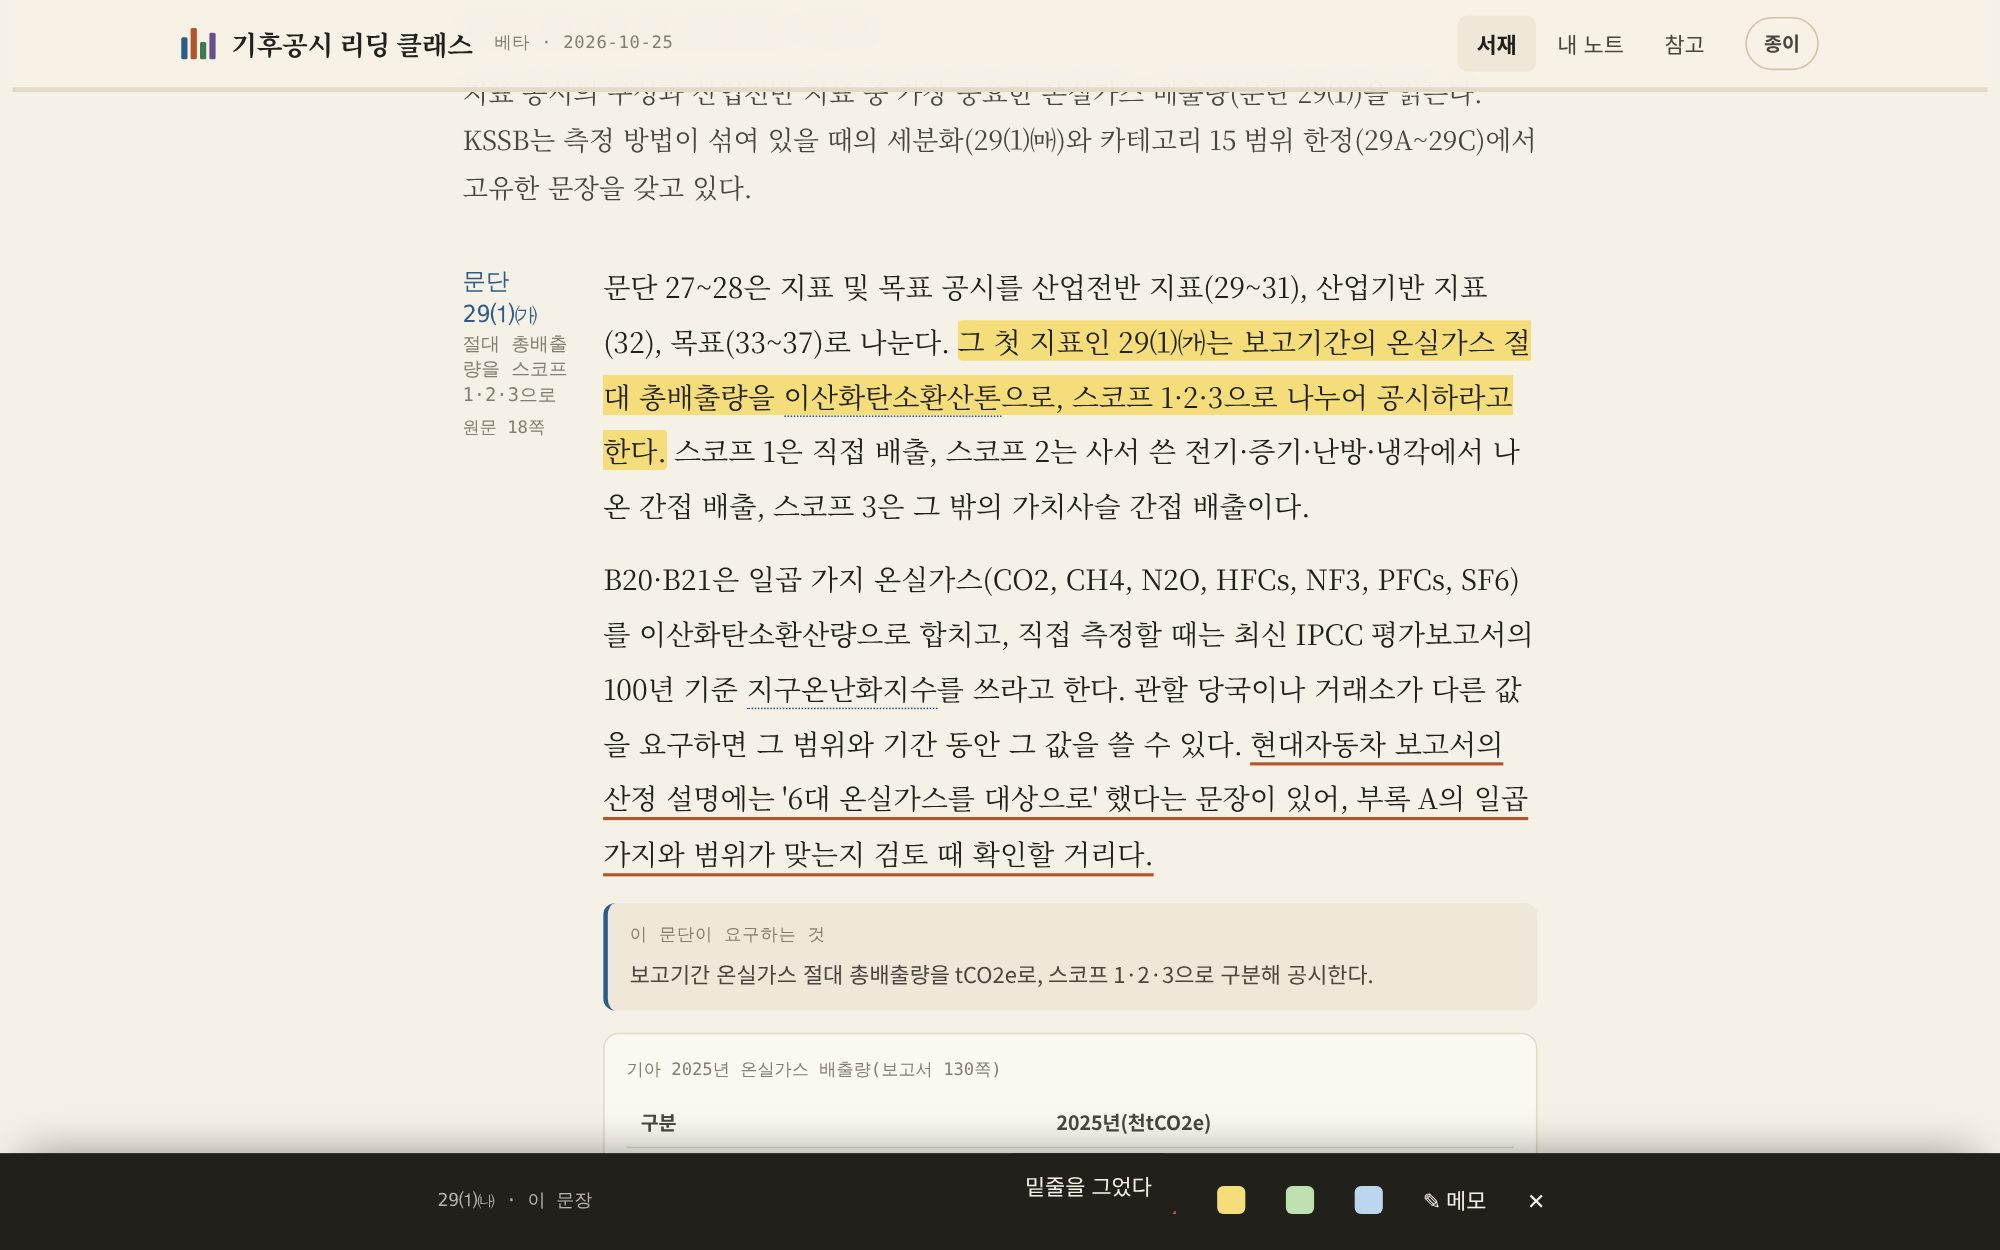
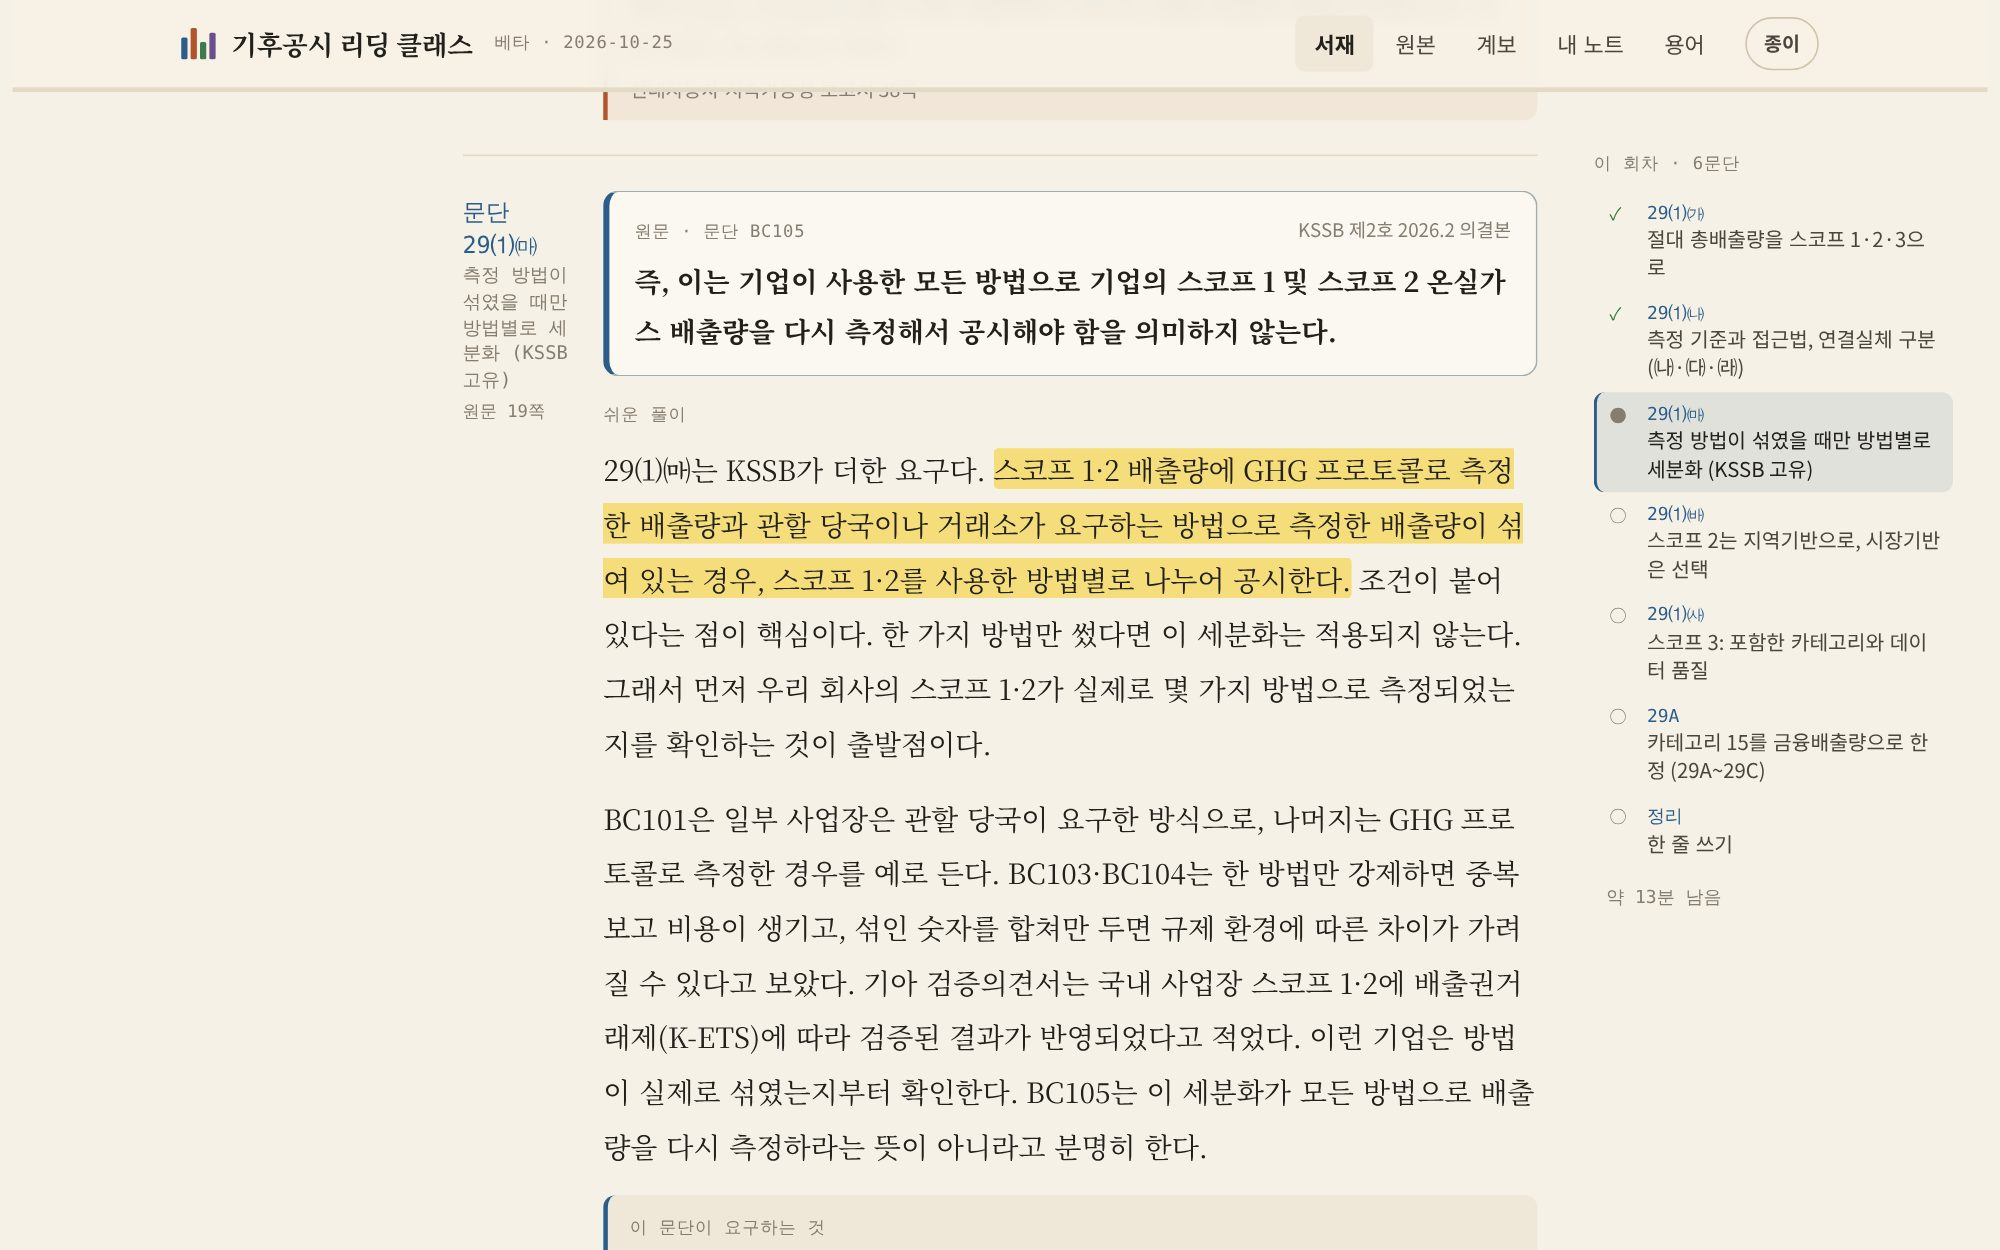
리딩 클래스 v5.1 반영: 원문 읽기·문단 계보·개정 이력 화면, KSSB 판본을 2026.2 의결본으로 정정
Claude-Session: https://claude.ai/code/session_01QTyxkXTEtuCeNheqNmYwfj

diff --git a/index.html b/index.html
@@ -420,10 +420,10 @@ main{margin-left:210px}
         <div class="fig"><div class="n">20<small>종</small></div><div class="l">원문으로 대조한<br>기준서·법령</div></div>
       </div>
       <ul class="point-box">
-        <li>기준서 <b>원문 문단 번호</b>에 모든 설명을 연결</li>
-        <li>문장 밑줄·형광펜·메모, 기아·현대차 보고서 <b>실제 예</b></li>
-        <li><b>한 줄 쓰기</b>: 핵심어 묶음으로 채점, 모범 답안 공개</li>
-        <li>KSSB↔IFRS S2 <b>대응표</b>, 용어집 438개, 검수 기록</li>
+        <li><b>원문 문장 먼저</b>, 모든 설명을 문단·쪽 번호에 연결</li>
+        <li><b>문단 계보</b>: GHG 프로토콜→국내 지침→IFRS S2→KSSB</li>
+        <li><b>개정 이력</b>(D-day)과 검수에서 고친 69곳 공개</li>
+        <li>★핵심 회차·읽기 경로, 한 줄 쓰기 키워드 채점</li>
       </ul>
       <dl class="info-box"><dt>기간</dt><dd>2026.10 ~ (진행 중)</dd><dt>역할</dt><dd>1인 기획·학습 설계·검수 (AI와 협업해 원고·구현)</dd><dt>스택</dt><dd>JavaScript · Node.js 빌드 · GitHub Pages</dd></dl>
       <div class="insight">💡 기준서는 요약본이 아니라 원문 문단으로 읽어야 실무에서 근거를 댈 수 있습니다.</div>
@@ -432,14 +432,14 @@ main{margin-left:210px}
     <div class="project-visual fade">
       <div class="browser-frame"><div class="browser-bar"><i></i><i></i><i></i><span>goalbangg-prog.github.io/Climate-Change-Professional-Maker</span></div>
         <div class="screen">
-          <div class="shot active"><div class="panel src-panel"><h6>SOURCE DOCUMENTS</h6><h3>원문으로 대조한 기준서·법령 20종</h3><div class="sub">모든 해설은 아래 원본의 문단·조항 번호에 연결했습니다.</div><div class="src-cols"><div><div class="src-g"><div class="src-h">기후공시 <span>4</span></div><div class="src-r"><b>KSSB 지속가능성 공시기준 제1호</b><i>2025 공표본</i></div><div class="src-r"><b>KSSB 지속가능성 공시기준 제2호</b><i>2025 공표본</i></div><div class="src-r"><b>IFRS S1 일반 요구사항</b><i>ISSB 2026 edition</i></div><div class="src-r"><b>IFRS S2 기후 관련 공시</b><i>2023.6 + 2025.12 개정</i></div></div><div class="src-g"><div class="src-h">산정·검증 <span>6</span></div><div class="src-r"><b>GHG Protocol 기업 회계·보고 표준</b><i>2004 개정판</i></div><div class="src-r"><b>GHG Protocol Scope 2 지침</b><i>2015</i></div><div class="src-r"><b>GHG Protocol Scope 3 표준</b><i>2011</i></div><div class="src-r"><b>GHG Protocol Scope 3 산정 지침</b><i>2013</i></div><div class="src-r"><b>배출량 보고 및 인증에 관한 지침</b><i>2025.4 시행 · 2021 구판 대조</i></div><div class="src-r"><b>배출권거래제 검증지침</b><i>2025.10 시행 · 별표 포함</i></div></div></div><div><div class="src-g"><div class="src-h">법령·제도 <span>7</span></div><div class="src-r"><b>탄소중립기본법</b><i>2026.11.12 시행</i></div><div class="src-r"><b>탄소중립기본법 시행령</b><i>2026.11.12 시행</i></div><div class="src-r"><b>배출권거래법</b><i>2026.4.29 시행</i></div><div class="src-r"><b>배출권거래법 시행령</b><i>2026.10.8 시행</i></div><div class="src-r"><b>온실가스 목표관리 운영 지침</b><i>2025.10 시행 · 별표 포함</i></div><div class="src-r"><b>환경정보공개제도 운영규정</b><i>2025.10 시행</i></div><div class="src-r"><b>K-택소노미 가이드라인</b><i>2025.12</i></div></div><div class="src-g"><div class="src-h">기후과학·국가 통계 <span>3</span></div><div class="src-r"><b>IPCC AR6 종합보고서</b><i>2023 · 영문 + 기상청 국문</i></div><div class="src-r"><b>IPCC AR6 제1실무그룹 정책결정자 요약</b><i>2021</i></div><div class="src-r"><b>국가 온실가스 인벤토리 보고서</b><i>2024 · 국문 + 영문 NID</i></div></div></div></div></div></div>
-          <div class="shot"><img src="img/ccpm-shelf.jpg?v=1" alt="리딩 클래스 서재 화면" loading="lazy"></div>
-          <div class="shot"><img src="img/ccpm-read.jpg?v=1" alt="KSSB 제2호 문단 29 읽기와 문장 표시" loading="lazy"></div>
-          <div class="shot"><img src="img/ccpm-write.jpg?v=1" alt="한 줄 쓰기 채점 결과" loading="lazy"></div>
+          <div class="shot active"><div class="panel src-panel"><h6>SOURCE DOCUMENTS</h6><h3>원문으로 대조한 기준서·법령 20종</h3><div class="sub">모든 해설은 아래 원본의 문단·조항 번호에 연결했습니다.</div><div class="src-cols"><div><div class="src-g"><div class="src-h">기후공시 <span>4</span></div><div class="src-r"><b>KSSB 지속가능성 공시기준 제1호</b><i>2026.2 의결본</i></div><div class="src-r"><b>KSSB 지속가능성 공시기준 제2호</b><i>2026.2 의결본</i></div><div class="src-r"><b>IFRS S1 일반 요구사항</b><i>ISSB 2026 edition</i></div><div class="src-r"><b>IFRS S2 기후 관련 공시</b><i>2023.6 + 2025.12 개정</i></div></div><div class="src-g"><div class="src-h">산정·검증 <span>6</span></div><div class="src-r"><b>GHG Protocol 기업 회계·보고 표준</b><i>2004 개정판</i></div><div class="src-r"><b>GHG Protocol Scope 2 지침</b><i>2015</i></div><div class="src-r"><b>GHG Protocol Scope 3 표준</b><i>2011</i></div><div class="src-r"><b>GHG Protocol Scope 3 산정 지침</b><i>2013</i></div><div class="src-r"><b>배출량 보고 및 인증에 관한 지침</b><i>2025.4 시행 · 2021 구판 대조</i></div><div class="src-r"><b>배출권거래제 검증지침</b><i>2025.10 시행 · 별표 포함</i></div></div></div><div><div class="src-g"><div class="src-h">법령·제도 <span>7</span></div><div class="src-r"><b>탄소중립기본법</b><i>2026.11.12 시행</i></div><div class="src-r"><b>탄소중립기본법 시행령</b><i>2026.11.12 시행</i></div><div class="src-r"><b>배출권거래법</b><i>2026.4.29 시행</i></div><div class="src-r"><b>배출권거래법 시행령</b><i>2026.10.8 시행</i></div><div class="src-r"><b>온실가스 목표관리 운영 지침</b><i>2025.10 시행 · 별표 포함</i></div><div class="src-r"><b>환경정보공개제도 운영규정</b><i>2025.10 시행</i></div><div class="src-r"><b>K-택소노미 가이드라인</b><i>2025.12</i></div></div><div class="src-g"><div class="src-h">기후과학·국가 통계 <span>3</span></div><div class="src-r"><b>IPCC AR6 종합보고서</b><i>2023 · 영문 + 기상청 국문</i></div><div class="src-r"><b>IPCC AR6 제1실무그룹 정책결정자 요약</b><i>2021</i></div><div class="src-r"><b>국가 온실가스 인벤토리 보고서</b><i>2024 · 국문 + 영문 NID</i></div></div></div></div></div></div>
+          <div class="shot"><img src="img/ccpm-read.jpg?v=2" alt="원문 문장을 먼저 보여 주는 KSSB 제2호 29⑴㈒ 읽기 화면과 회차 길잡이" loading="lazy"></div>
+          <div class="shot"><img src="img/ccpm-map.jpg?v=2" alt="Scope 1·2 배출량 문단 계보: GHG 프로토콜에서 KSSB까지" loading="lazy"></div>
+          <div class="shot"><img src="img/ccpm-changes.jpg?v=1" alt="원본 개정 이력과 D-day" loading="lazy"></div>
           
         </div>
       </div>
-      <div class="tabs"><button class="tab active">원본 기준서 20종</button><button class="tab">서재</button><button class="tab">원문 읽기</button><button class="tab">한 줄 쓰기</button></div>
+      <div class="tabs"><button class="tab active">원본 기준서 20종</button><button class="tab">원문 읽기</button><button class="tab">문단 계보</button><button class="tab">개정 이력</button></div>
     </div>
   </div>
 </section>
